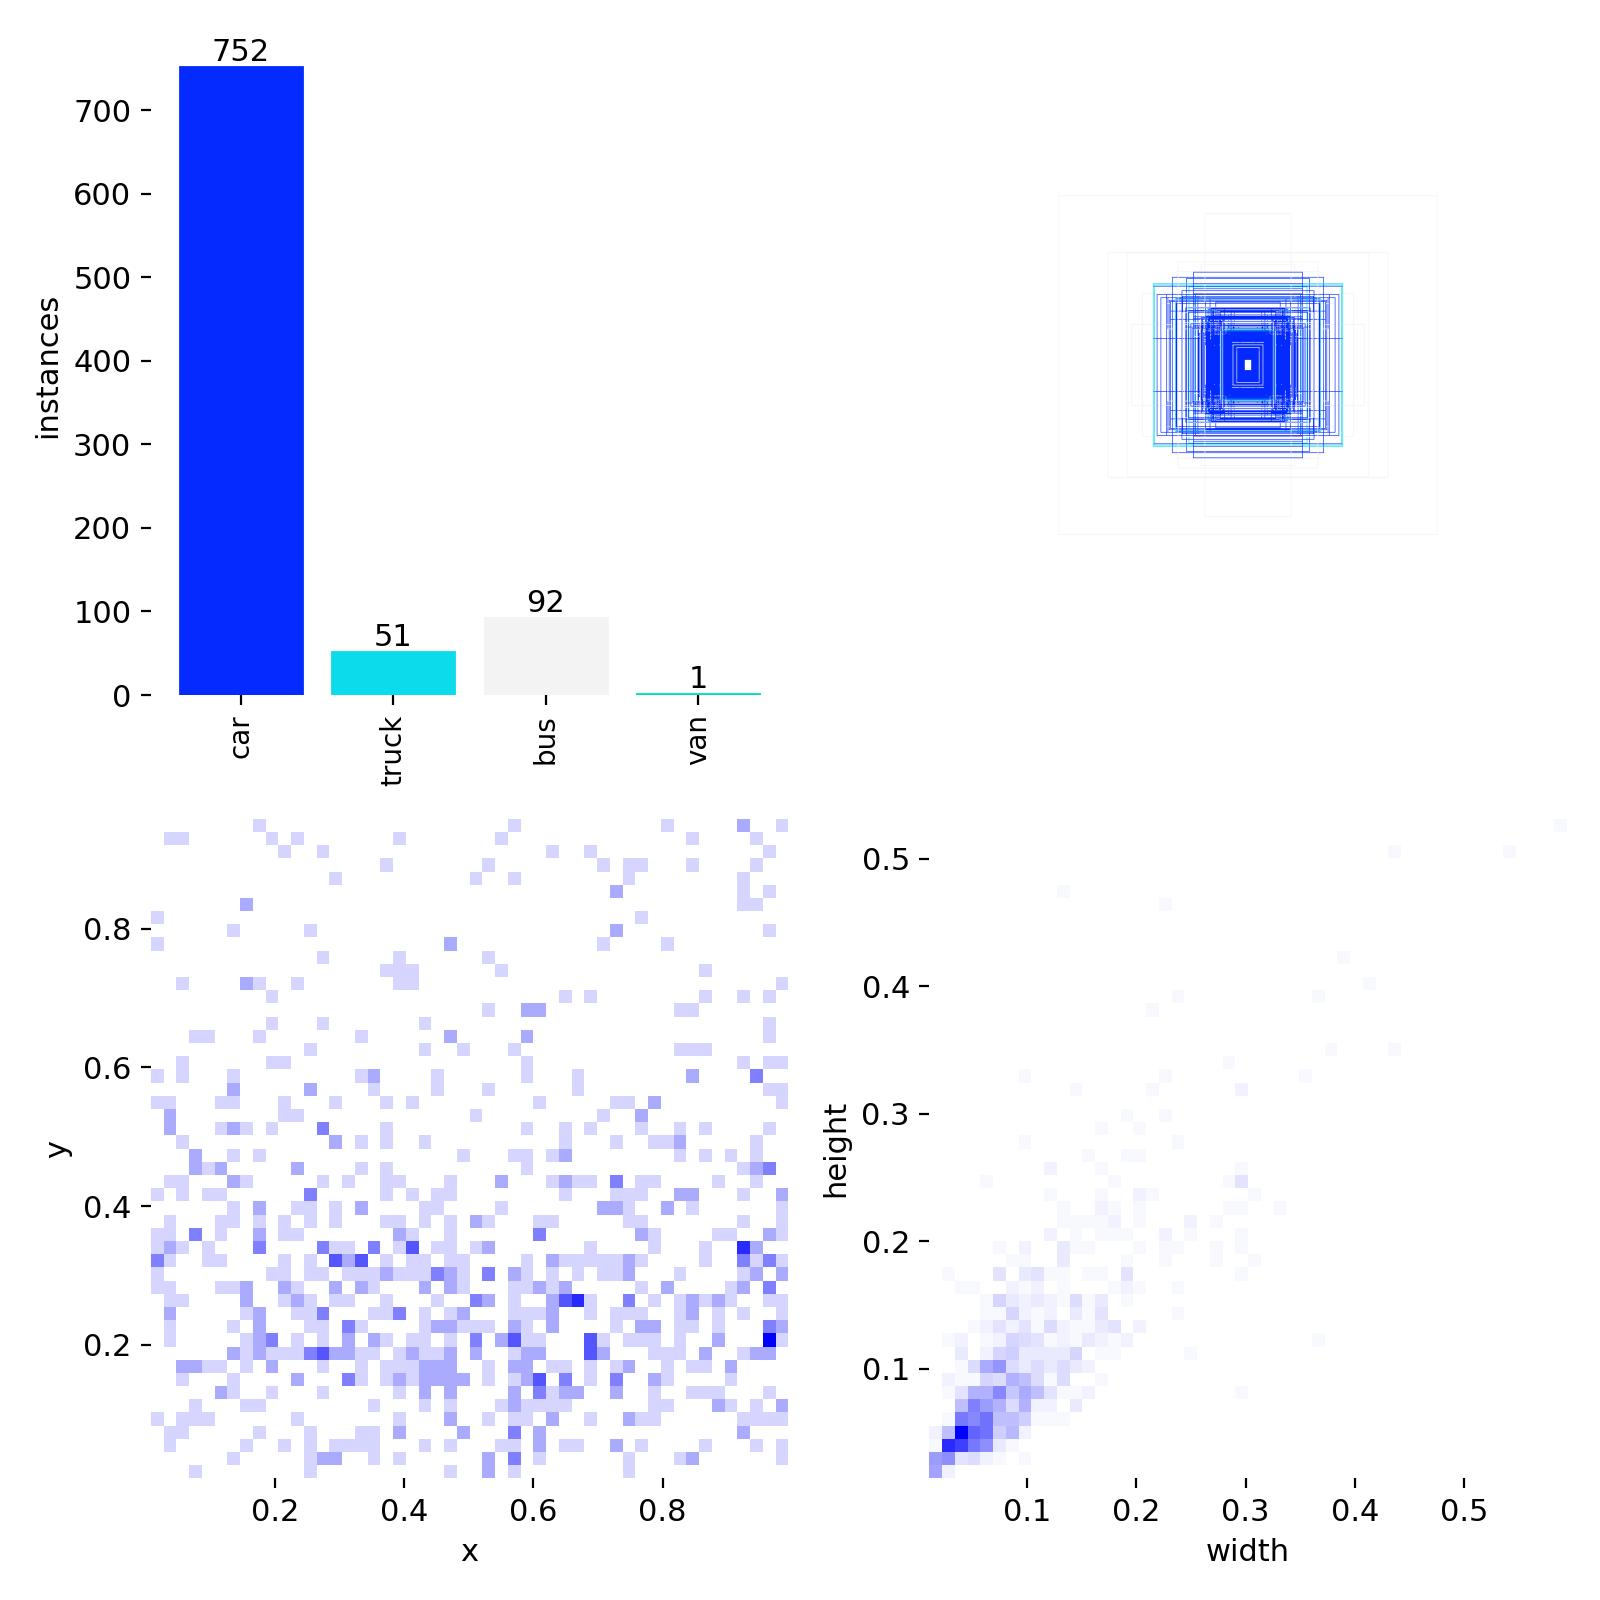
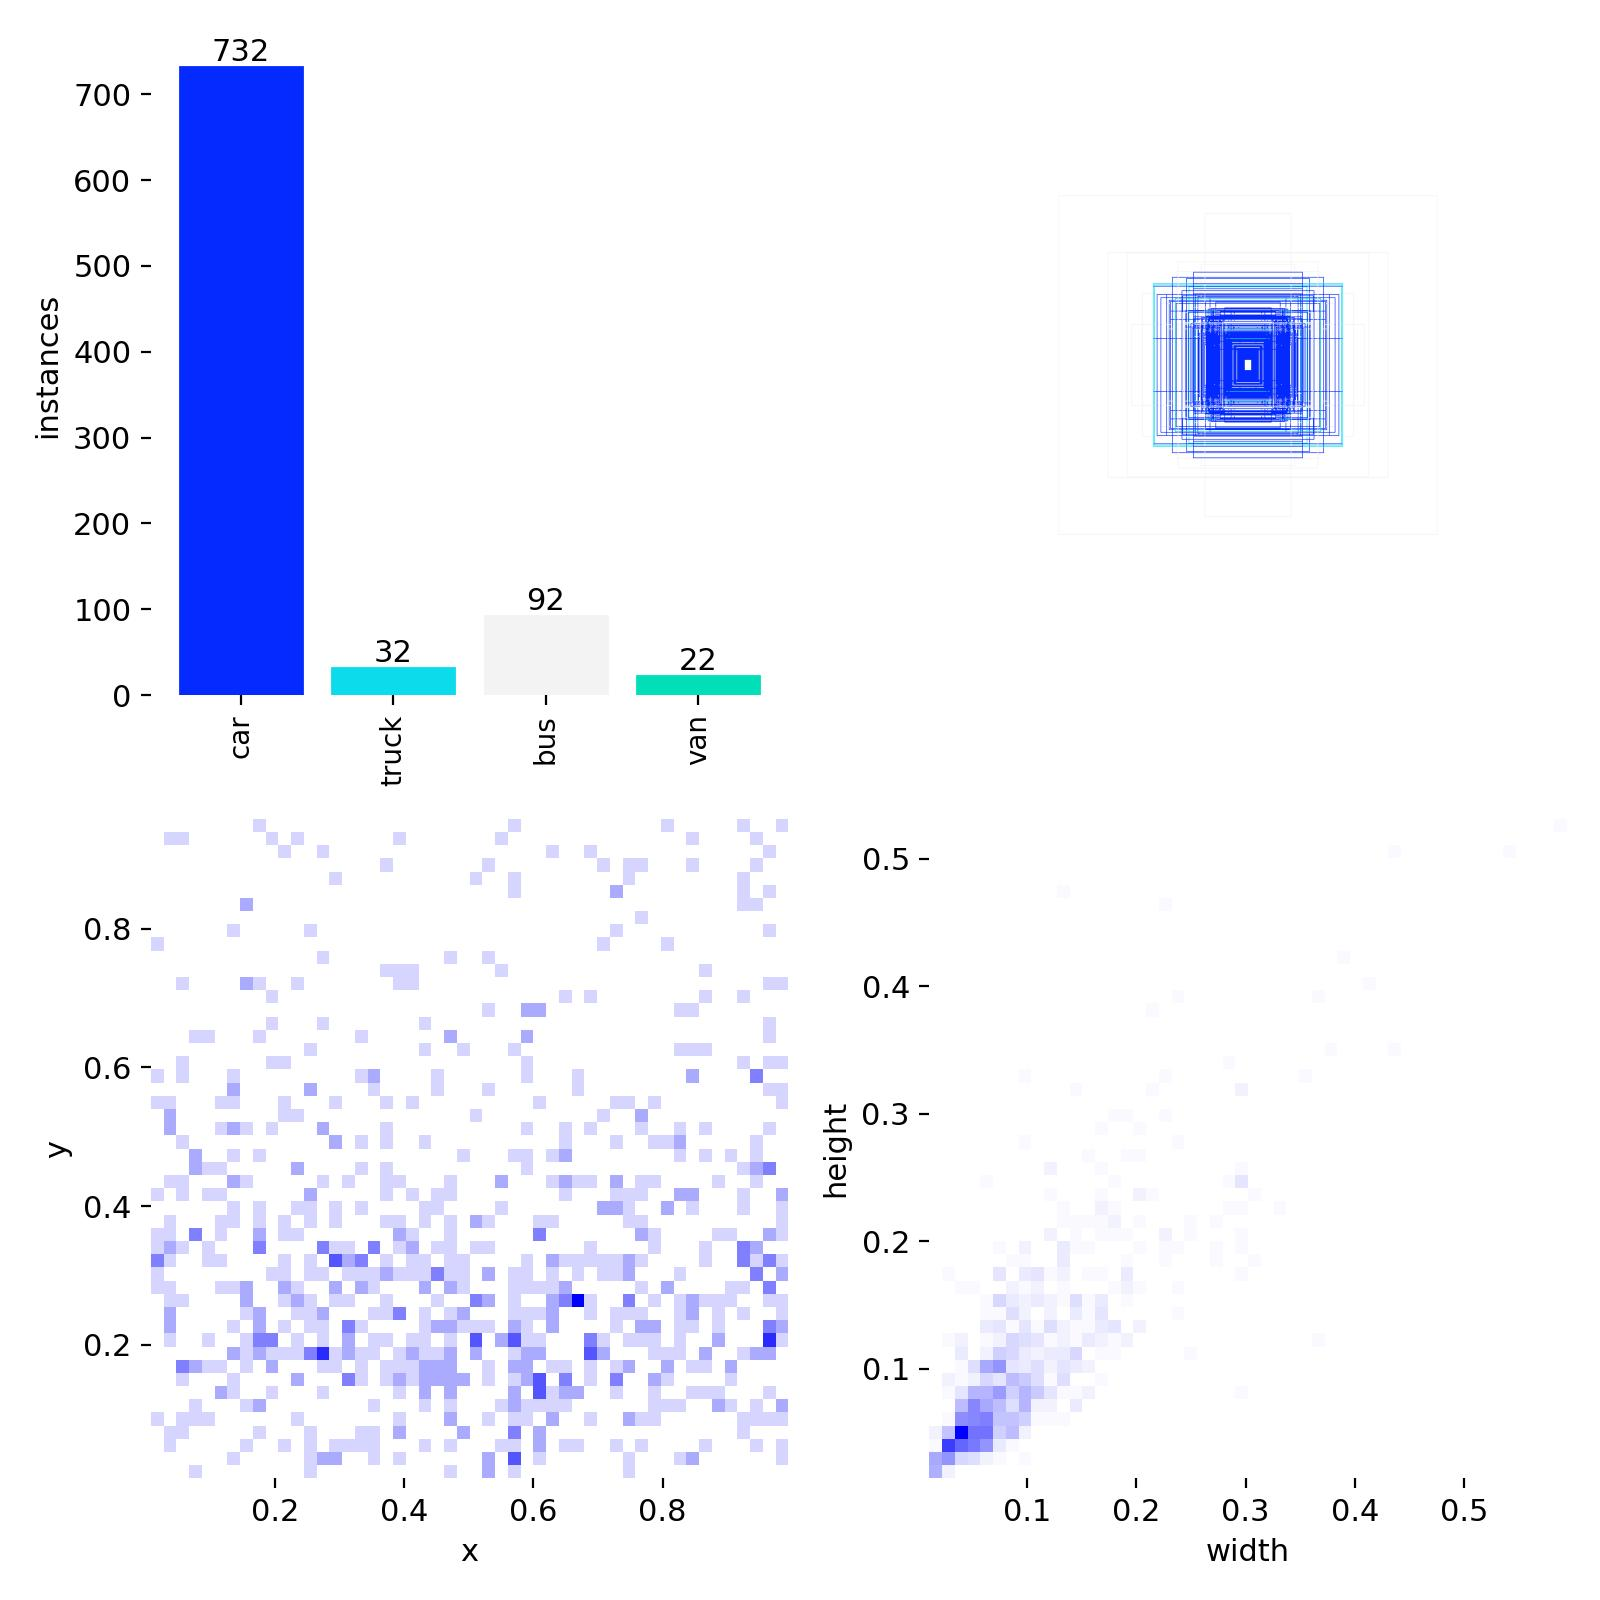
final commit

diff --git a/report/individual/MSSV_HoTen.md b/report/individual/MSSV_HoTen.md
@@ -4,72 +4,110 @@
 
 ## 1. Thông tin học viên
 
-- Họ tên:
-- MSSV:
-- Email:
-- Lớp:
-- Link repo bài làm:
-- Link Colab đã chạy:
+- Họ tên: Nguyễn Hải Đăng
+- MSSV: 2A202603190
+- Email: haidang453@gmail.com
+- Lớp: 2a
+- Link repo bài làm: https://github.com/44244432664/K5-L2-Day02-ObjectDetection.git
+- Link Colab đã chạy: https://colab.research.google.com/drive/1mZlScUyW9FMR9QHKMeXC6dhxkY3bguIs?usp=sharing
 
 ## 2. Schema và mini guideline
 
 Dẫn tới [GUIDELINE_MINI.md](../../GUIDELINE_MINI.md). Tóm tắt ba ca mơ hồ đã quyết định, cách áp dụng schema và phần cần giảng viên làm rõ.
 
+Schema giữ nguyên bốn lớp: `0 = car`, `1 = truck`, `2 = bus`, `3 = van`. Box bám sát phần xe nhìn thấy, không lấy bóng đổ/nền và không suy đoán phần bị che hoặc nằm ngoài ảnh.
+
+Giảng viên đã làm rõ hai phần **Vật thể bị cắt bởi rìa ảnh** và **Vật thể rất nhỏ/mơ hồ**. Theo mini guideline hiện có: với xe bị cắt khung, chỉ bao phần xe nằm trong ảnh và đặt cạnh box sát rìa tương ứng; với xe rất nhỏ/mơ hồ, phóng to kiểm tra, chỉ gán lớp khi đủ đặc điểm nhận diện, ghi lại trường hợp chưa rõ để hỏi giảng viên.
+
+Ba ca mơ hồ đối chiếu từ ảnh và nhãn hiện có:
+
+1. **Xe bị cắt bởi rìa ảnh — [drive_003.jpg](../../dataset/images/train/drive_003.jpg):** xe buýt ở mép phải được [nhãn hiện tại](../../dataset/labels/train/drive_003.txt) ghi `bus` tại tâm normalized xấp xỉ `(0.971, 0.232)`; cạnh phải box đạt xấp xỉ `1.0`. Áp dụng quy tắc chỉ bao phần xe trong khung, không ước lượng phần nằm ngoài ảnh.
+2. **Xe rất nhỏ — [drive_002.jpg](../../dataset/images/train/drive_002.jpg):** vật thể ở xa phía trên ảnh được [nhãn hiện tại](../../dataset/labels/train/drive_002.txt) ghi `car` tại tâm `(0.619, 0.115)`, box rộng/cao normalized xấp xỉ `(0.0123, 0.0174)`. Quy tắc áp dụng là phóng to để kiểm tra đủ đặc điểm phân lớp; không suy đoán lớp chỉ từ kích thước hoặc bối cảnh. Việc nhãn hiện tại ghi `car` không tự chứng minh vật thể đã được nhận diện đúng.
+3. **Xe bị che một phần — [drive_001.jpg](../../dataset/images/train/drive_001.jpg):** xe trắng ở làn bên phải bị cột che một phần được [nhãn hiện tại](../../dataset/labels/train/drive_001.txt) ghi `car` tại tâm xấp xỉ `(0.793, 0.555)`. Quy tắc áp dụng là một box cho cùng một xe, bao các phần nhìn thấy và không suy đoán phần bị che.
+
 ## 3. Annotation và self-QC
 
-- Số file nhãn train:
-- Kết quả checker và lỗi đã xử lý:
-- Danh sách ít nhất 10 ảnh đã rà bằng mắt:
+- Số file nhãn train: 50
+- Kết quả checker và lỗi đã xử lý: Đã chạy lại bằng `.venv`; terminal trả về “ĐẠT cấu trúc: 50/50 file nhãn hợp lệ”
+- Danh sách ít nhất 10 ảnh đã rà bằng mắt: [drive_001.jpg](../../dataset/images/train/drive_001.jpg) ([nhãn](../../dataset/labels/train/drive_001.txt)), [drive_002.jpg](../../dataset/images/train/drive_002.jpg) ([nhãn](../../dataset/labels/train/drive_002.txt)), [drive_003.jpg](../../dataset/images/train/drive_003.jpg) ([nhãn](../../dataset/labels/train/drive_003.txt)), [drive_004.jpg](../../dataset/images/train/drive_004.jpg) ([nhãn](../../dataset/labels/train/drive_004.txt)), [drive_005.jpg](../../dataset/images/train/drive_005.jpg) ([nhãn](../../dataset/labels/train/drive_005.txt)), [drive_006.jpg](../../dataset/images/train/drive_006.jpg) ([nhãn](../../dataset/labels/train/drive_006.txt)), [drive_007.jpg](../../dataset/images/train/drive_007.jpg) ([nhãn](../../dataset/labels/train/drive_007.txt)), [drive_008.jpg](../../dataset/images/train/drive_008.jpg) ([nhãn](../../dataset/labels/train/drive_008.txt)), [drive_009.jpg](../../dataset/images/train/drive_009.jpg) ([nhãn](../../dataset/labels/train/drive_009.txt)), [drive_010.jpg](../../dataset/images/train/drive_010.jpg) ([nhãn](../../dataset/labels/train/drive_010.txt)).
 - Lỗi bỏ sót/box/class phát hiện khi rà và cách sửa:
-- Commit khóa nhãn ban đầu:
+- Commit khóa nhãn ban đầu: `dc5968a7393d3fd9fa23a7aaa2407dec4a6c4eba` (`add images`, 09/11/2026 19:41:22 UTC+7), là commit đầu tiên lưu đủ 50 file nhãn train theo lịch sử Git.
 
 ## 4. Gold QC và rework
 
 | Chỉ số | Trước sửa | Sau sửa nếu có |
 |---|---:|---:|
-| TP | | |
-| FP | | |
-| FN | | |
-| Precision | | |
-| Recall | | |
-| F1 | | |
-| mean_iou_of_matches | | |
-| passed | | |
+| TP | 441 | |
+| FP | 691 | |
+| FN | 212 | |
+| Precision | 0.3896 | |
+| Recall | 0.6753 | |
+| F1 | 0.4941 | |
+| mean_iou_of_matches | 0.8529 | |
+| passed | `false` | |
 
 Dẫn tới `outputs/annotation_evaluation.json` trong repo. Nếu rework, ghi ảnh, lỗi đã kiểm, quyết định sửa/giữ và lý do. Không suy nguyên nhân chỉ từ FP/FN. Không có rework thì ghi rõ.
 
+**Rework: không thực hiện do không đủ thời gian.** Giữ nguyên kết quả đánh giá hiện có; cột **Sau sửa nếu có** để trống vì không có vòng sửa và đánh giá lại sau sửa.
+
+Kết quả: [annotation_evaluation.json](../../outputs/annotation_evaluation.json). Lệnh đã chạy lại từ thư mục gốc bằng Python trong `.venv`:
+
+```powershell
+.\.venv\Scripts\python.exe tools/evaluate_annotations.py --student-labels dataset/labels/train --gold-labels gold_train_labels
+```
+
+**Chưa đạt**: F1 = 0.4941 < 0.80; mean_iou_of_matches = 0.8529 ≥ 0.70. Script dùng ngưỡng ghép IoU = 0.50, cùng lớp và một-một; trả về mã thoát `1` vì chưa đạt cổng QC.
+
 ## 5. Kết quả YOLO
 
-- Runtime, GPU/CPU, phiên bản Ultralytics và Torch:
-- Các tham số thay đổi so với notebook nếu có và lý do:
-- Đường dẫn best checkpoint trong phiên chạy:
+- Runtime, GPU/CPU, phiên bản Ultralytics và Torch: Google Colab, GPU NVIDIA T4; Ultralytics v0.0.8, Torch 2.14.1+cu130
+- Các tham số thay đổi so với notebook nếu có và lý do: Không
+- Đường dẫn best checkpoint trong phiên chạy: `K5-L2-Day02-ObjectDetection\report\individual\assets\yolo26_runs\vehicle_annotation\weights\best.pt`.
 
 | Chỉ số trên 10 ảnh eval | Giá trị |
 |---|---:|
-| Precision | |
-| Recall | |
-| mAP50 | |
-| mAP50–95 | |
+| Precision | 0.4105 |
+| Recall | 0.2303 |
+| mAP50 | 0.2723 |
+| mAP50–95 | 0.2017 |
 
 Đặt cả 2 folder `assets/eval_predictions/` và `assets/yolo26_runs/` (giải nén từ `day2_colab_outputs.zip`) cạnh báo cáo và dẫn link tương đối. Không chỉ ghi số; chỉ ra ít nhất một ảnh và vật thể cụ thể.
+
+Các chỉ số YOLO lấy từ [model_eval_metrics.json](assets/model_eval_metrics.json) đã có; lệnh evaluate vừa chạy chỉ đánh giá annotation, không tính lại metric mô hình. Đã có [10 ảnh dự đoán eval](assets/eval_predictions/visuals/) và [log/ảnh chỉ số YOLO](assets/yolo26_runs/). Ví dụ trong [drive_051.jpg](assets/eval_predictions/visuals/drive_051.jpg), xe đỏ lớn phía dưới bên trái được dự đoán `van 0.99`, trong khi [nhãn eval](../../dataset/labels/eval/drive_051.txt) ghi `car` tại tâm normalized xấp xỉ `(0.348, 0.836)`.
 
 Trả lời bốn câu hỏi cuối notebook:
 
 1. Lớp nào recall thấp nhất? Ảnh nào minh họa?
+
+   Theo [confusion matrix eval](assets/yolo26_runs/vehicle_eval/confusion_matrix.png), `bus` và `van` đều có TP = 0, lần lượt trên 2 và 12 vật thể thật, nên recall tính từ ma trận là 0. Trong [drive_052.jpg](assets/eval_predictions/visuals/drive_052.jpg), vật thể lớn giữa ảnh, lệch trái, được dự đoán `bus 0.51`; [nhãn eval](../../dataset/labels/eval/drive_052.txt) ghi `van` tại tâm `(0.427, 0.534)`. JSON chỉ lưu recall tổng hợp, chưa có bảng recall từng lớp tại ngưỡng tính metric.
+
 2. Nếu mAP50 cao nhưng mAP50–95 thấp, cần kiểm điều gì trên box?
+
+   Cần kiểm vị trí và độ bám sát các cạnh box, phần nền lấy dư, phần xe bị cắt hoặc bị che. Box có thể đạt IoU 0.50 nhưng không đạt ngưỡng cao hơn. Kết quả hiện tại có mAP50 = 0.2723, chưa phải trường hợp mAP50 cao.
+
 3. Lỗi class nào có thể liên quan guideline? Dữ kiện nào hỗ trợ nhận xét?
+
+   Ma trận ghi nhận 11 vật thể thật `van` được dự đoán `bus` và 4 `truck` được dự đoán `car`; các ảnh trên minh họa thêm bất đồng class. Cần đối chiếu ranh giới lớp trong guideline với ảnh và nhãn train; chưa đủ căn cứ quy nguyên nhân cho guideline cá nhân hoặc kết luận nhãn eval sai.
+
 4. Vì sao không dùng 10 ảnh eval để train? Vai trò validation của chúng trong notebook là gì?
+
+   [data.yaml](../../data.yaml) tách `train: images/train` và `val: images/eval`. Theo notebook, eval dùng để validation khi train, chọn `best.pt` và tính metric cuối. Đưa eval vào train làm mất sự tách biệt giữa dữ liệu huấn luyện và đánh giá. Vì đã tham gia chọn checkpoint, eval không phải test set độc lập.
 
 ## 6. Khó khăn và cách xử lý
 
 | Bước/thời điểm | Lỗi quan sát | Cách đã thử | Kết quả/còn thiếu |
 |---|---|---|---|
-| | | | |
+| xác định label `van` vs `car` | khó phân biệt giữa `van` và `car` do có vẻ ngoài gần tương tự nhau | sử dụng `GUIDELINE_MINI.md` để xác định vẻ ngoài của phương tiện | Gold QC hiện tại chưa đạt: Precision = 0.3896, F1 = 0.4941 |
+| xác định ảnh phương tiện trong các ảnh có nhiều phương tiện chồng lên nhau | xác định có nên đóng khung (box) vật thể không | đọc lại `GUIDELINE` và tham khảo ý kiến giảng viên | Gold QC tổng hợp ghi nhận FP = 691, FN = 212, mean_iou_of_matches = 0.8529 và passed = false. Chưa xác định các sai khác thuộc vật thể chồng lấp |
 
 ## 7. Tự đánh giá theo rubric
 
 Đối chiếu [RUBRIC.md](../../RUBRIC.md): phần nào đã có kết quả, phần nào còn thiếu hoặc chưa kiểm được. Không tự nhận hoàn thành bước chưa chạy.
 
+Đã có 50 file nhãn qua checker, JSON gold QC, metric YOLO, 10 ảnh dự đoán eval, danh sách 10 ảnh đầu đã tự tái kiểm tra, commit nhãn ban đầu và thông tin runtime Google Colab/GPU T4. Mục 2 đã đối chiếu ba ca mơ hồ từ ảnh và nhãn hiện có; bảng ba ca mơ hồ trong `GUIDELINE_MINI.md` vẫn cần cập nhật tương ứng. Gold QC chưa đạt F1; mean IoU chỉ xác nhận độ khớp của các cặp đã ghép. Không rework do không đủ thời gian.
+
 ## 8. Công cụ AI và tài liệu tham khảo
 
 Ghi công cụ đã dùng, dùng ở bước nào và phần đã tự kiểm tra; không dùng thì ghi rõ. Liệt kê nguồn ngoài repo được sử dụng. Không ghi mật khẩu/token hoặc đính kèm gold train.
+
+Đã tự kiểm tra lại 10 ảnh đầu (`drive_001`–`drive_010`) và kết quả từ script `tools/evaluate_annotations.py`. Sử dụng ChatGPT/Codex để tổng hợp thông tin, đối chiếu tài liệu và hỗ trợ diễn đạt báo cáo. Tài liệu tham khảo trong lần tổng hợp này gồm `GUIDELINE_MINI.md`, `RUBRIC.md`, `SUBMISSION.md`, notebook, scripts và artifacts trong repo.
